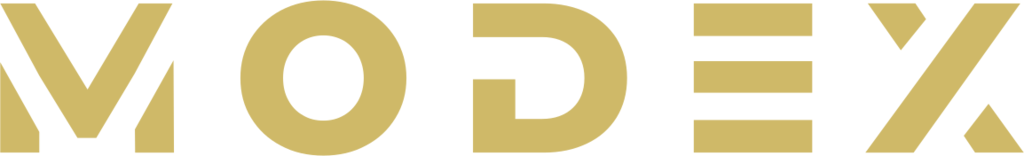
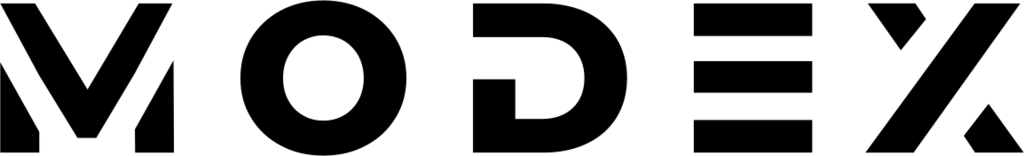
rebranding

diff --git a/components/computer-spec-data.tsx b/components/computer-spec-data.tsx
@@ -11,7 +11,7 @@ const ComputerSpecData: React.FC<ComputerSpecDataProps> = ({ data }) => {
 
 <div className="grid grid-cols-1 sm:grid-cols-2 lg:grid-cols-3 gap-4">
               <div>
-                <p className="font-semibold text-primary text-2xl mb-4">Processor</p>
+                <p className="font-semibold text-2xl mb-4">Processor</p>
                 <p className="mb-2">CPU: {data.processor.name}</p>
                 <p className="mb-2">Merk: {data.processor.brand}</p>
                 <p className="mb-2">Series: {data.processor.series}</p>
@@ -19,14 +19,14 @@ const ComputerSpecData: React.FC<ComputerSpecDataProps> = ({ data }) => {
                 <p className="mb-2">Base Clock: {data.processor.baseSpeed}</p>
               </div>
               <div>
-                <p className="font-semibold text-primary text-2xl mb-4">Processor Koeler</p>
+                <p className="font-semibold text-2xl mb-4">Processor Koeler</p>
                 <p className="mb-2">Koeler: {data.cooler.name}</p>
                 <p className="mb-2">Model: {data.cooler.model}</p>
                 <p className="mb-2">Type: {data.cooler.type}</p>
                 <p className="mb-2">RGB: {data.cooler.rgb}</p>
               </div>
               <div>
-                <p className="font-semibold text-primary text-2xl mb-4">Grafische Kaart</p>
+                <p className="font-semibold text-2xl mb-4">Grafische Kaart</p>
                 <p className="mb-2">GPU: {data.graphics.name}</p>
                 <p className="mb-2">Merk: {data.graphics.brand}</p>
                 <p className="mb-2">Model: {data.graphics.model}</p>
@@ -35,7 +35,7 @@ const ComputerSpecData: React.FC<ComputerSpecDataProps> = ({ data }) => {
                 <p className="mb-2">Maximale kloksnelheid: {data.graphics.maxClock}</p>
               </div>
               <div>
-                <p className="font-semibold text-primary text-2xl mb-4">Geheugen</p>
+                <p className="font-semibold text-2xl mb-4">Geheugen</p>
                 <p className="mb-2">Geheugen: {data.memory.name}</p>
                 <p className="mb-2">Model: {data.memory.model}</p>
                 <p className="mb-2">Capaciteit: {data.memory.capacity}</p>
@@ -44,28 +44,28 @@ const ComputerSpecData: React.FC<ComputerSpecDataProps> = ({ data }) => {
                 <p className="mb-2">RGB: {data.memory.rgb}</p>
               </div>
               <div>
-                <p className="font-semibold text-primary text-2xl mb-4">Moederbord</p>
+                <p className="font-semibold text-2xl mb-4">Moederbord</p>
                 <p className="mb-2">Moederbord: {data.motherboard.name}</p>
                 <p className="mb-2">Model: {data.motherboard.model}</p>
                 <p className="mb-2">Form Factor: {data.motherboard.formFactor}</p>
                 <p className="mb-2">Wi-Fi: {data.motherboard.wifi}</p>
                 </div>
                 <div>
-                <p className="font-semibold text-primary text-2xl mb-4">Opslag</p>
+                <p className="font-semibold text-2xl mb-4">Opslag</p>
                 <p className="mb-2">Opslag: {data.storage.name}</p>
                 <p className="mb-2">Model: {data.storage.model}</p>
                 <p className="mb-2">Capaciteit: {data.storage.capacity}</p>
                 <p className="mb-2">Type: {data.storage.type}</p>
                 </div>
                 <div>
-                <p className="font-semibold text-primary text-2xl mb-4">Voeding</p>
+                <p className="font-semibold text-2xl mb-4">Voeding</p>
                 <p className="mb-2">Voeding: {data.power.name}</p>
                 <p className="mb-2">Model: {data.power.model}</p>
                 <p className="mb-2">Capaciteit: {data.power.wattage}</p>
                 <p className="mb-2">Certificering: {data.power.rating}</p>
                 </div>
                 <div>
-                <p className="font-semibold text-primary text-2xl mb-4">Behuizing</p>
+                <p className="font-semibold text-2xl mb-4">Behuizing</p>
                 <p className="mb-2">Behuizing: {data.pccase.name}</p>
                 <p className="mb-2">Model: {data.pccase.model}</p>
                 <p className="mb-2">Moederbord ondersteuning: {data.pccase.motherboardSupport}</p>

diff --git a/app/(routes)/retour/page.tsx b/app/(routes)/retour/page.tsx
@@ -3,25 +3,23 @@ import type { Metadata } from 'next'
 
 
 export const metadata: Metadata = {
-  title: 'MODEX Retour | MODEX',
-  description: 'Dit is de retour pagina van MODEX.',
-  keywords: ['MODEX retour', 'MODEX retourneren', 'MODEX Retourvoorwaarden', 'MODEX Retourvoorwaarden', 'MODEX Retourneren', 'MODEX Retourneren Nederland', 'MODEX Retour Nederland', 'MODEX Retourvoorwaarden Nederland', 'MODEX Retourvoorwaarden Nederland', 'MODEX Retourneren Nederland', 'MODEX Retourneren Nederland', 'MODEX Retourvoorwaarden Nederland', 'MODEX Retourvoorwaarden Nederland', 'MODEX Retourneren Nederland', 'MODEX Retourneren Nederland', 'MODEX Retourvoorwaarden Nederland', 'MODEX Retourvoorwaarden Nederland', 'MODEX Retourneren Nederland', 'MODEX Retourneren Nederland', 'MODEX Retourvoorwaarden Nederland', 'MODEX Retourvoorwaarden Nederland', 'MODEX Retourneren Nederland', 'MODEX Retourneren Nederland', 'MODEX Retourvoorwaarden Nederland', 'MODEX Retourvoorwaarden Nederland', 'MODEX Retourneren Nederland', 'MODEX Retourneren Nederland', 'MODEX Retourvoorwaarden Nederland', 'MODEX Retourvoorwaarden Nederland',]
+    title: 'MODEX Retour | MODEX',
+    description: 'Dit is de retour pagina van MODEX.',
+    keywords: ['MODEX retour', 'MODEX retourneren', 'MODEX Retourvoorwaarden', 'MODEX Retourvoorwaarden', 'MODEX Retourneren', 'MODEX Retourneren Nederland', 'MODEX Retour Nederland', 'MODEX Retourvoorwaarden Nederland', 'MODEX Retourvoorwaarden Nederland', 'MODEX Retourneren Nederland', 'MODEX Retourneren Nederland', 'MODEX Retourvoorwaarden Nederland', 'MODEX Retourvoorwaarden Nederland', 'MODEX Retourneren Nederland', 'MODEX Retourneren Nederland', 'MODEX Retourvoorwaarden Nederland', 'MODEX Retourvoorwaarden Nederland', 'MODEX Retourneren Nederland', 'MODEX Retourneren Nederland', 'MODEX Retourvoorwaarden Nederland', 'MODEX Retourvoorwaarden Nederland', 'MODEX Retourneren Nederland', 'MODEX Retourneren Nederland', 'MODEX Retourvoorwaarden Nederland', 'MODEX Retourvoorwaarden Nederland', 'MODEX Retourneren Nederland', 'MODEX Retourneren Nederland', 'MODEX Retourvoorwaarden Nederland', 'MODEX Retourvoorwaarden Nederland',]
 }
 
 const RetourPage = () => {
-  return (
-  <div className="bg-black text-white">
+    return (
     <Container>
-      <div className="px-4 py-10 sm:px-6 lg:px-8">
-        <h1 className="text-3xl font-bold">Retourneren</h1>
-        <div className="mt-4 max-w-2xl text-lg">
-          <p className="mb-4">Je hebt het recht om je bestelling tot 30 dagen na ontvangst zonder opgave van reden te annuleren. Je hebt na annulering nogmaals 14 dagen om je product retour te sturen. De kosten voor het retourneren van het pakket zijn voor eigen rekening en verantwoordelijkheid. Stuur het pakket alstublieft niet terug tenzij uw aanvraag is geaccepteerd.</p>
-          <p className="mb-4">Als u een retour wilt aanvragen, kunt u een e-mail sturen naar <a href="mailto:info@modex-pc.nl" className="text-primary underline">info@modex-pc.nl</a> met uw factuurnummer, naam en adres. U kunt geen retour aanvragen voor computers die op maat voor u zijn gebouwd. Indien uw aanvraag wordt geaccepteerd, dient u het pakket terug te sturen naar Draakstraat 7, 9742TD.</p>
+        <div className="px-4 py-10 sm:px-6 lg:px-8">
+            <h1 className="text-3xl font-bold">Retourneren</h1>
+            <div className="mt-4 max-w-2xl text-lg">
+                <p className="mb-4">Je hebt het recht om je bestelling tot 30 dagen na ontvangst zonder opgave van reden te annuleren. Je hebt na annulering nogmaals 14 dagen om je product retour te sturen. De kosten voor het retourneren van het pakket zijn voor eigen rekening en verantwoordelijkheid. Stuur het pakket alstublieft niet terug tenzij uw aanvraag is geaccepteerd.</p>
+                <p className="mb-4">Als u een retour wilt aanvragen, kunt u een e-mail sturen naar <a href="mailto:info@modex-pc.nl" className="text-primary underline">info@modex-pc.nl</a> met uw factuurnummer, naam en adres. U kunt geen retour aanvragen voor computers die op maat voor u zijn gebouwd. Indien uw aanvraag wordt geaccepteerd, dient u het pakket terug te sturen naar Draakstraat 7, 9742TD.</p>
+            </div>
         </div>
-      </div>
     </Container>
-  </div>
-  )
+    )
 }
 
 export default RetourPage;  

diff --git a/components/footer.tsx b/components/footer.tsx
@@ -6,34 +6,34 @@ const Footer = () => {
     const currentYear = new Date().getFullYear();
 
     return (
-        <footer className="bg-black border-t border-primary text-white py-8">
+        <footer className="bg-white border-t border-black text-black py-8">
             <Container>
             <div className="container mx-auto flex flex-wrap justify-between md:pl-8">
-                <div className="mb-4 bg-black p-4  md:w-1/2 lg:w-1/4">
+                <div className="mb-4 p-4  md:w-1/2 lg:w-1/4">
                     <p className="text-lg font-bold mb-2">Volg Ons!</p>
                     <a href="https://www.instagram.com/modexpcs">
-                        <p className='text-white hover:text-primary transition-all mb-2'>Instagram</p>
+                        <p className='hover:text-primary transition-all mb-2'>Instagram</p>
                     </a>
                     <a href="https://www.tiktok.com/@modexpcs">
-                        <p className='text-white hover:text-primary transition-all mb-2'>TikTok</p>
+                        <p className=' hover:text-primary transition-all mb-2'>TikTok</p>
                     </a>
                     <a href="https://discord.gg/2nz9fqMweu">
-                        <p className='text-white hover:text-primary transition-all'>Discord</p>
+                        <p className=' hover:text-primary transition-all'>Discord</p>
                     </a>
                 </div>
-                <div className="mb-4 bg-black p-4 md:w-1/2 lg:w-1/4">
+                <div className="mb-4 p-4 md:w-1/2 lg:w-1/4">
                     <p className="text-lg font-bold mb-2">Voorwaarden</p>
                     <Link key="/privacy" href="/privacy">
-                        <p className='text-white hover:text-primary transition-all mb-2'>Privacy</p>
+                        <p className=' hover:text-primary transition-all mb-2'>Privacy</p>
                     </Link>
                     <Link key="/voorwaarden" href="/voorwaarden">
-                        <p className='text-white hover:text-primary transition-all mb-2'>Algemene Voorwaarden</p>
+                        <p className=' hover:text-primary transition-all mb-2'>Algemene Voorwaarden</p>
                     </Link>
                     <Link key="/cookies" href="/cookies">
-                        <p className='text-white hover:text-primary transition-all'>Cookies</p>
+                        <p className=' hover:text-primary transition-all'>Cookies</p>
                     </Link>
                 </div>
-                <div className="mb-4 bg-black p-4 md:w-1/2 lg:w-1/4">
+                <div className="mb-4 p-4 md:w-1/2 lg:w-1/4">
                     <p className="text-lg font-bold mb-2">Contact Informatie</p>
                     <p className="mb-2">Telefoonnummer: <a title='phone number' href="tel:+31649146060" className='hover:text-primary transition-colors'>+31649146060</a></p>
                     <p className="mb-2">Email: <a title='email' href="mailto:info@modex-pc.nl" className='hover:text-primary transition-colors'>info@modex-pc.nl</a></p>
@@ -42,7 +42,7 @@ const Footer = () => {
                     <p title='KVK nummer' className='mb-2'>KVK: 89703685</p>
                     <p title='BTW Nummer'>BTW: NL004752554B13</p>
                 </div>
-                <div className="mb-4 bg-black p-4 md:w-1/2 lg:w-1/4">
+                <div className="mb-4 p-4 md:w-1/2 lg:w-1/4">
                     <p className="text-lg font-bold mb-2">Service</p>
                     <Link key="/retour" href="/retour" ><p className='mb-2 hover:text-primary transition-colors'>Retourneren</p></Link>
                 </div>

diff --git a/components/ui/computer-card.tsx b/components/ui/computer-card.tsx
@@ -21,29 +21,29 @@ const Card: React.FC<CardProps> = ({ data }) => {
     };
     
     return (
-    <div onClick={handleClick} className="bg-black200 rounded-lg shadow-xl  text-black flex-col flex cursor-pointer transition-all duration-300  hover:bg-black100">
-        <div className="w-full min-h-80 aspect-square rounded-t-md bg-white flex items-center">
+    <div onClick={handleClick} className="bg-white rounded-lg shadow-xl text-black flex-col flex cursor-pointer transition-all duration-300 hover:bg-slate">
+        <div className="w-full min-h-80 aspect-square rounded-t-md flex items-center">
             {data?.images?.[0]?.url ? (
                 <div className="relative">
                     <Image src={data?.images?.[0]?.url} width={1000} height={1000} quality={100} alt={data.name} loading="lazy" className="rounded-md" />
-                    <div className="bg-primary flex items-center justify-center bottom-0 w-full absolute py-2 px-4 font-semibold">Verbeterde foto{"\'"}s komen binnenkort!</div>
+                    <div className="bg-black text-white flex items-center justify-center bottom-0 w-full absolute py-2 px-4 font-semibold">Verbeterde foto{"\'"}s komen binnenkort!</div>
                 </div>
                 ) : (
                 <p className="w-full h-auto text-center text-gray">Geen afbeelding beschikbaar.</p>
                 )}
             </div>
             <div className="p-4 flex flex-col">
-                <p className="font-bold text-xl text-white ">{data.name}</p>
-                <p className="text-lg text-white font-semibold">€ {data.price}</p>
-                <hr className="mt-2 text-black100" />
+                <p className="font-bold text-xl ">{data.name}</p>
+                <p className="text-lg font-semibold">€ {data.price}</p>
+                <hr className="mt-2 " />
                 <div className="mt-2">
-                    <p className="text-gray">{data.graphics.model}</p>
-                    <p className="text-gray">{data.processor.name}</p>
-                    <p className="text-gray">{data.memory.name}</p>
+                    <p className="">{data.graphics.model}</p>
+                    <p className="">{data.processor.name}</p>
+                    <p className="">{data.memory.name}</p>
                 </div>
                 <hr className="mt-2 text-black100" />
                 <div className="flex items-center mt-4">
-                    <Button onClick={handleClick} className="px-4 py-2 flex text-md items-center w-full justify-center rounded-lg hover:opacity-75 transition-all bg-primary text-black hover:bg-white">
+                    <Button onClick={handleClick} className="px-4 py-2 flex text-md items-center w-full justify-center rounded-lg hover:opacity-75 transition-all bg-black text-white ">
                         Ontdek!
                         <ChevronRightIcon size={20} className="ml-1" />
                     </Button>

diff --git a/components/bulletsection.tsx b/components/bulletsection.tsx
@@ -3,19 +3,19 @@ import { PcCase, Shield, EuroIcon } from "lucide-react";
 
 const BulletSection = () => {
   return (
-    <div className="text-white space-y-4 my-12 rounded-lg">
-        <h3 className="text-primary font-bold text-3xl mx-auto">Waarom MODEX?</h3>
-      <div className="grid grid-cols-1 sm:grid-cols-1 md:grid-cols-3 lg:gird-cols-3 gap-4 bg-black200 rounded-md py-4 px-2">
+    <div className="text-black space-y-4 my-12 rounded-lg">
+        <h3 className="text-black font-bold text-3xl mx-auto">Waarom MODEX?</h3>
+      <div className="border grid grid-cols-1 sm:grid-cols-1 md:grid-cols-3 lg:gird-cols-3 gap-4 border-black rounded-md py-4 px-2">
         <div className="px-4 py-2">
-          <h4 className='text-primary font-semibold text-2xl mb-6 flex items-center'><PcCase className="mr-2 w-6 h-6"/>Prestaties eerst</h4>
+          <h4 className='text-black font-semibold text-2xl mb-6 flex items-center'><PcCase className="mr-2 w-6 h-6"/>Prestaties eerst</h4>
           <p className='font-medium text-lg'>Bij MODEX staat prestatie voorop. Onze computers zijn gebouwd met de beste componenten om een soepele en meeslepende game-ervaring te garanderen.</p>
         </div>
         <div className="px-4 py-2">
-          <h5 className='text-primary text-2xl font-semibold mb-6 flex items-center'><EuroIcon className="mr-2 w-6 h-6"/>Eerlijke prijzen</h5>
+          <h5 className='text-black text-2xl font-semibold mb-6 flex items-center'><EuroIcon className="mr-2 w-6 h-6"/>Eerlijke prijzen</h5>
           <p className='text-lg font-medium'>Bij MODEX geloven we in eerlijke prijzen. We streven ernaar om de beste prestaties per euro te bieden, waardoor gamen toegankelijker wordt.</p>
         </div>
         <div className="px-4 py-2">
-          <h6 className='text-primary text-2xl font-semibold mb-6 flex items-center'><Shield className="mr-2 w-6 h-6"/>Betrouwbare garantie</h6>
+          <h6 className='text-black text-2xl font-semibold mb-6 flex items-center'><Shield className="mr-2 w-6 h-6"/>Betrouwbare garantie</h6>
           <p className='font-medium text-lg'>We staan achter de kwaliteit van onze producten. Daarom bieden we een betrouwbare garantie op onze machines. Je kunt met een gerust hart gamen, wetende dat wij er voor je zijn als er iets misgaat.</p>
         </div>
       </div>

diff --git a/components/computer-info.tsx b/components/computer-info.tsx
@@ -28,11 +28,11 @@ const ComputerInfo: React.FC<ComputerInfoProps> = ({
         <div>
             <h1 className="text-3xl font-bold text-primary">{data.name}</h1>
             <div className="mt-3 flex items-end justify-between">
-                <p className="text-2xl text-white">
+                <p className="text-2xl">
                     <Currency value={data?.price}/>
                 </p>
             </div>
-            <hr className="my-4 text-black200"/>
+            <hr className="my-4"/>
             <div className="flex gap-x-4 flex-col">
                 <h2 className="font-semibold text-primary text-lg mb-4">Belangrijkste specificaties:</h2>                
                 <p className="mb-2">Processor: {data.processor.name}</p>
@@ -44,10 +44,10 @@ const ComputerInfo: React.FC<ComputerInfoProps> = ({
                 <p className="mb-2">Voeding: {data.power.name}</p>
                 <p className="mb-2">Behuizing: {data.pccase.name}</p>
             </div>
-            <hr className="my-4 text-black200"/>
+            <hr className="my-4"/>
             <div className="mt-6 flex gap-x-3 flex-col">
             <DeliveryTime deliveryTime={data.deliveryTime} classNames="mb-2" />
-                <Button title="Add to cart" onClick={onAddToCart} className="bg-white text-black hover:bg-primary flex items-center w-full rounded-lg justify-center gap-x-2 mt-2 sm:mt-4">
+                <Button title="Add to cart" onClick={onAddToCart} className="border border-black hover:bg-gray-300 flex items-center w-full rounded-lg justify-center gap-x-2 mt-2 sm:mt-4">
                     Toevoegen aan winkelwagen
                     <ShoppingCart size={20} className="ml-2" />
                 </Button>

diff --git a/hooks/use-cart.ts b/hooks/use-cart.ts
@@ -19,19 +19,19 @@ const useCart = create(
             const existingItem = currentItems.find((item) => item.id === data.id);
 
             if (existingItem) {
-                return toast.error("Artikel is al toegevoegd aan de winkelwagen", {style: {background: "#000000", color: "#fff", border: "2px solid #cfb968"}})
+                return toast.error("Artikel is al toegevoegd aan de winkelwagen")
             }
 
             set({ items: [...get().items, data] });
-            toast.success("Artikel is toegevoegd aan de winkelwagen", {style: {background: "#000000", color: "#fff", border: "2px solid #cfb968"}});
+            toast.success("Artikel is toegevoegd aan de winkelwagen");
         },
         removeItem: (id: string) => {
             set({ items: [...get().items.filter((item) => item.id !== id)] });
-            toast.success("Artikel is verwijderd uit de winkelwagen", {style: {background: "#000000", color: "#fff", border: "2px solid #cfb968"}});
+            toast.success("Artikel is verwijderd uit de winkelwagen");
         },
         removeAll: () => {
             set({ items: [] });
-            toast.success("Alle artikelen zijn verwijderd uit de winkelwagen", {style: {background: "#000000", color: "#fff", border: "2px solid #cfb968"}});
+            toast.success("Alle artikelen zijn verwijderd uit de winkelwagen");
         },
         
     }), {

diff --git a/app/(routes)/voorwaarden/page.tsx b/app/(routes)/voorwaarden/page.tsx
@@ -11,9 +11,9 @@ export const metadata: Metadata = {
 
 export default function Voorwaarden() {
     return (
-        <div className="container mx-auto px-4 md:px-8 lg:px-16 xl:px-32 text-white mt-32 mb-16">
+        <div className="container mx-auto px-4 md:px-8 lg:px-16 xl:px-32 mt-32 mb-16">
   <h1 className="text-2xl md:text-2xl lg:text-3xl xl:text-4xl font-bold mb-12 mt-12">Algemene Voorwaarden</h1>
-  <div className="text-white space-y-2 md:space-y-4 lg:space-y-6 xl:space-y-8">
+  <div className="space-y-2 md:space-y-4 lg:space-y-6 xl:space-y-8">
         
         <h2 className="text-2xl mt-4">Inhoudsopgave</h2>
         
@@ -325,7 +325,7 @@ export default function Voorwaarden() {
         Aanvullende dan wel van deze algemene voorwaarden afwijkende bepalingen mogen niet ten nadele van de consument zijn en dienen schriftelijk te worden vastgelegd dan wel op zodanige wijze dat deze door de consument op een toegankelijke manier kunnen worden opgeslagen op een duurzame gegevensdrager.
         </p>
 
-        <a href=" ../../../public/algemene-voorwaarden-modex.pdf"><p className="mt-8 text-xl underline text-primary">Link voor algemene voorwaarden PDF</p></a>
+        <a href="algemene-voorwaarden-modex.pdf" download><p className="mt-8 text-xl underline text-primary">Link voor algemene voorwaarden PDF</p></a>
         </div>
         </div>
         

diff --git a/components/computer-list.tsx b/components/computer-list.tsx
@@ -31,7 +31,7 @@ const ComputerList: React.FC<ComputerListProps> = async ({
     }
 
     if (sortOrder === 'random') {
-        filteredItems.sort(() => Math.random() - 0.5); // Randomize the order
+        filteredItems.sort(() => Math.random() - 0.5);
     } else {
         filteredItems.sort((a, b) => {
             if (sortOrder === 'asc') {
@@ -48,10 +48,10 @@ const ComputerList: React.FC<ComputerListProps> = async ({
 
     return (
         <div className="space-y-4">
-            <p className="text-white font-bold text-3xl mx-auto flex justify-center items-center">{title}</p>
-            <p className=" text-gray text-1xl mx-auto font-semibold flex justify-center items-center">{description}</p>
+            <p className="font-bold text-3xl mx-auto flex justify-center items-center">{title}</p>
+            <p className="text-1xl mx-auto font-semibold flex justify-center items-center">{description}</p>
             {filteredItems.length === 0 && <NoResults />}
-            <div className="grid grid-cols-1 sm:grid-cols-2 md:grid-cols-3 lg:gird-cols-3 gap-4 text-white">
+            <div className="grid grid-cols-1 sm:grid-cols-2 md:grid-cols-3 lg:gird-cols-3 gap-4">
                 {filteredItems.map(item => (
                     <ComputerCard key={item.id} data={item} />
                 ))}

diff --git a/components/mobile-navbar-toggle.tsx b/components/mobile-navbar-toggle.tsx
@@ -11,9 +11,9 @@ const NavbarToggle = ({
 
     return (
         <button className={`h-6 w-6 relative focus:outline-none px-0 py-0 ${isMenuOpen ? 'transform translate-y-0.5 transition-all' : 'transition-all'} `} onClick={handleMenuToggle} title="Menu">
-            <span className={`block w-6 h-0.5 bg-primary transition-all duration-500 relative ${isMenuOpen ? 'transform rotate-45 translate-y-1.5' : ''}`}></span>
-            <span className={`block w-6 h-0.5 bg-primary transition-all duration-500 relative mt-1.5 ${isMenuOpen ? 'opacity-0' : ''}`}></span>
-            <span className={`block w-6 h-0.5 bg-primary transition-all duration-500 relative mt-1.5 ${isMenuOpen ? 'transform -rotate-45 -translate-y-2.5' : ''}`}></span>
+            <span className={`block w-6 h-0.5 bg-black transition-all duration-500 relative ${isMenuOpen ? 'transform rotate-45 translate-y-1.5' : ''}`}></span>
+            <span className={`block w-6 h-0.5 bg-black transition-all duration-500 relative mt-1.5 ${isMenuOpen ? 'opacity-0' : ''}`}></span>
+            <span className={`block w-6 h-0.5 bg-black transition-all duration-500 relative mt-1.5 ${isMenuOpen ? 'transform -rotate-45 -translate-y-2.5' : ''}`}></span>
         </button>
     )
 }

diff --git a/app/(routes)/faq/page.tsx b/app/(routes)/faq/page.tsx
@@ -17,15 +17,15 @@ const FaqPage = async () => {
     const data = await getAnswers();
 
     return (
-        <div className="container mx-auto px-4 md:px-8 lg:px-16 xl:px-32 mt-32 text-white">
+        <div className="container mx-auto px-4 md:px-8 lg:px-16 xl:px-32 mt-32">
             <h1 className="mb-10 text-2xl sm:text-3xl font-bold">Veelgestelde vragen</h1>
             <Accordion type="single" collapsible className="w-full">
                 {data.map((item, index) => (
                     <AccordionItem key={index} className="mb-4 border-b-primary20" value={index.toString()}>
-                        <AccordionTrigger className="bg-black p-4 font-semibold text-xl">
+                        <AccordionTrigger className="p-4 font-semibold text-xl">
                             {item.question}
                         </AccordionTrigger>
-                        <AccordionContent className="bg-black p-4 text-lg">
+                        <AccordionContent className="p-4 text-lg">
                             {item.answers}
                         </AccordionContent>
                     </AccordionItem>

diff --git a/app/(routes)/privacy/page.tsx b/app/(routes)/privacy/page.tsx
@@ -7,9 +7,9 @@ export const metadata: Metadata = {
     keywords: ['MODEX Privacy', 'MODEX Privacy Policy', 'MODEX Privacy Beleid', 'MODEX Privacy Verklaring', 'MODEX Privacy Statement', 'MODEX Privacy Pagina', 'MODEX Privacy Policy Pagina', 'MODEX Privacy Beleid Pagina', 'MODEX Privacy Verklaring Pagina', 'MODEX Privacy Statement Pagina',]
   }
 
-const TextComponent2 = () => {
+const PrivacyPage = () => {
     return (
-        <div className="container mx-auto px-4 md:px-8 lg:px-16 xl:px-32 text-white mt-32">
+        <div className="container mx-auto px-4 md:px-8 lg:px-16 xl:px-32 mt-32">
         <h2 className="text-xl md:text-2xl lg:text-3xl font-bold mb-8">Cookies, of vergelijkbare technieken, die wij gebruiken</h2>
         <h2 className="text-xl mb-4">MODEX, gevestigd aan Draakstraat 7 9742TD Groningen, is verantwoordelijk voor de verwerking van persoonsgegevens zoals weergegeven in deze privacyverklaring.</h2>
             
@@ -82,4 +82,4 @@ const TextComponent2 = () => {
     );
 };
 
-export default TextComponent2;
+export default PrivacyPage;
